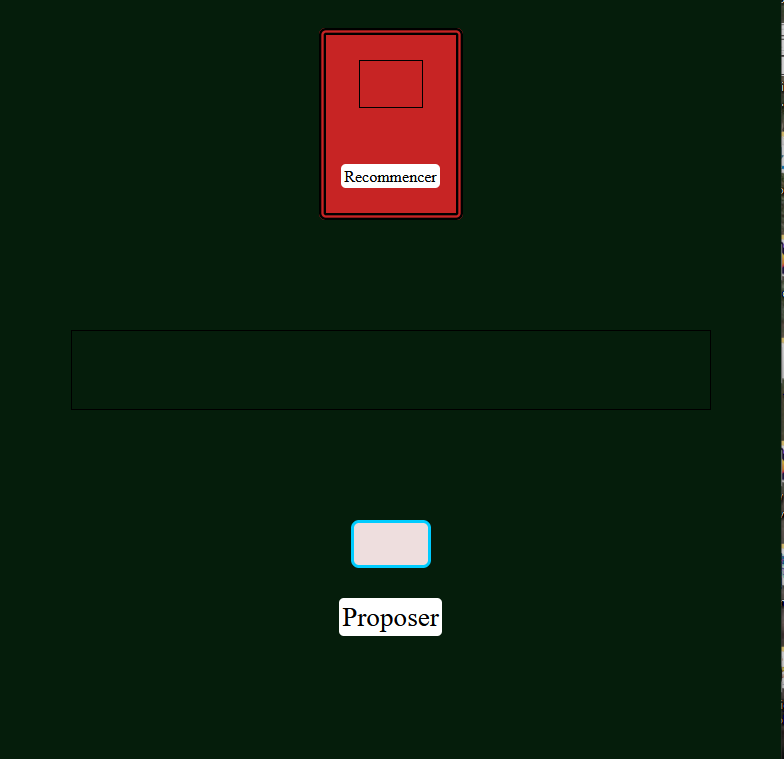
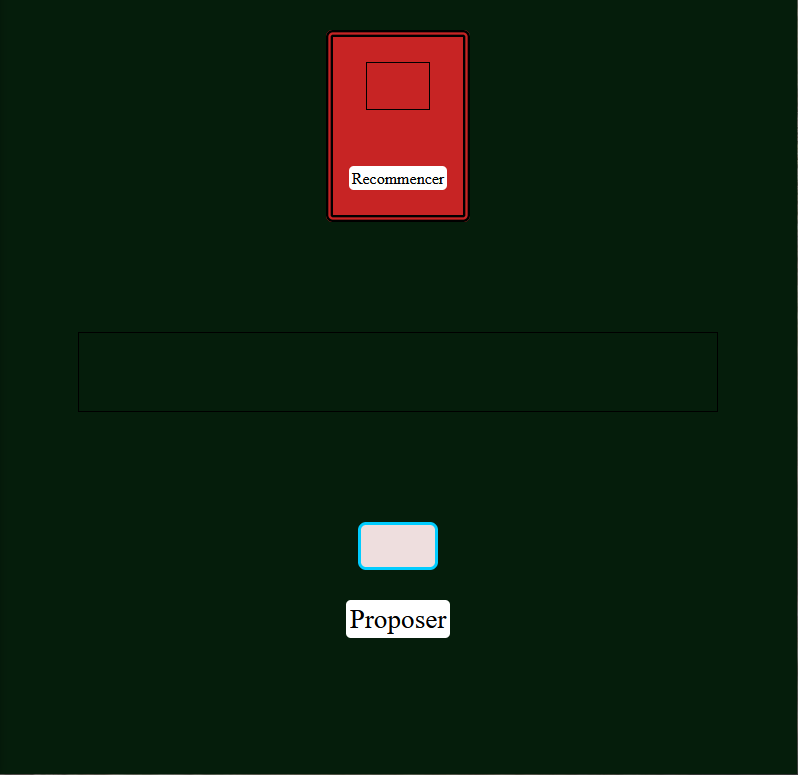
portfolio modif

diff --git a/juste prix/script.js b/juste prix/script.js
@@ -1,37 +1,82 @@
 "use strict"
 
-
+const justeprix = document.querySelector('.justeprix')
+const carte = document.querySelector('.carte')
+const restart = document.querySelector('.recommencer')
+const devine = document.querySelector('.devine')
 const aleatoire = Math.floor(Math.random() * 100) + 1;
 console.log(aleatoire);
+
+const guessInput = document.querySelector('#guess')
+const btn = document.querySelector('#submit')
+const texte = document.querySelector('.texte')
 let tentative = 0;
 const tentativeMax = 7;
 
-function Nombreàdeviner() {
-    const number = parseInt(prompt("Devinez le nombre entre 1 et 100 : "));
-
-    if(isNaN(number) || aleatoire < 1 || aleatoire >100){
-    alert("Veuillez entrer un nombre valide entre 1 et 100")
-    } else {
-    tentative++;
-
-    if (number < aleatoire) {
-    alert("le nombre à deviner est plus grand");
+btn.addEventListener('click', guessing)
+guessInput.addEventListener('keyup', (e)=>{
+    if (e.key === 'Enter') {
+        guessing();
     }
-    else if (number > aleatoire) {
-       alert("le nombre à deviner est plus petit");
+});
+
+restart.addEventListener('click', restartGame);
+    function startGame() {
+        const aleatoire = Math.floor(Math.random() * 100) + 1;
+        tentative = 0;
+        guessInput.disabled = false;
+        btn.disabled = false;
+        guessInput.value="";
+        texte.textContent = "",
+        guessInput.focus()
+    }
+    function restartGame() {
+        startGame();
+    }
+    startGame();
+        
+
+function guessing() {
+    const userGuess = parseInt(guessInput.value);
+    if(isNaN(userGuess) || userGuess < 1 || userGuess > 100){
+        texte.textContent = "Veuillez entrer un nombre valide entre 1 et 100"
+        texte.style.color = 'red'
+        texte.style.textShadow = "1px 1px 2px #ffffff"
+        } else {
+        tentative++;
+
+    if (userGuess < aleatoire) {
+        texte.textContent = `le nombre à deviner est plus grand (Essai ${tentative})`;
+        texte.style.textShadow = "1px 1px 5px #ffffff"
+        devine.textContent = "?"
+    }
+    else if (userGuess > aleatoire) {
+        texte.textContent = `le nombre à deviner est plus petit (Essai ${tentative})`;
+        texte.style.textShadow = "1px 1px 5px #ffffff"
+        devine.textContent="?"
     }
     else {
-        alert(`Vous avez deviné le nombre ${number} en ${tentative} tentatives`);
-        return;
+        texte.textContent =`Vous avez deviné le nombre ${userGuess} en ${tentative} tentatives`;
+        texte.style.textShadow = "2px 1px 5px green"
+        guessInput.disabled = true;
+        btn.disabled = true;
+        devine.textContent = aleatoire
+        devine.classList.remove("hidden")
+        restart.classList.remove("hidden")
     }
-    
-    if (tentative < tentativeMax){
-        Nombreàdeviner()
-    }
+    if (tentative < tentativeMax){}
     else {
-        alert("Désolé, vous avez utilisé le maximum de tentative soit 7 tentatives");  
+        texte.textContent ="Désolé, vous avez perdu"; 
+        texte.style.textShadow = "1px 1px 5px red"
+        devine.classList.remove("hidden")
+        restart.classList.remove("hidden")
     }
-    }
+    guessInput.value="";
 }
-Nombreàdeviner()
+}
+
+
+
+
+
 

diff --git a/juste prix/index.html b/juste prix/index.html
@@ -5,17 +5,22 @@
     <meta name="viewport" content="width=device-width, initial-scale=1.0">
     <title>Exo juste prix</title>
     <link rel="stylesheet" href="style.css">
-    <script src="script.js"></script>
+    <script src="./script.js" defer></script>
 </head>
 <body>
     <article class="justeprix">
-        <div class="carte">
-            <div class="devine"></div>
-            <div class="recommencer"><a href="" class="again">recommencer</a></div>
+        <div class="allcard">
+            <div class="twoface">
+            <div class="carte">
+                <div class="devine hidden"></div>
+                <div class="recommencer hidden"><a href="" class="again">recommencer</a></div>
+            </div>
+                <div class="doscarte"></div>
+            </div>
         </div>
-        <div class="texte"></div>
-        <div class="nombre"></div>
-        <div><a href="" class="btn">proposer</a></div>
+        <p class="texte"></p>
+        <div class="nombre"><input type="number" name="input" id="guess"></div>
+        <button id="submit">proposer</button>
     </article>
 </body>
 </html>

diff --git a/juste prix/style.css b/juste prix/style.css
@@ -29,10 +29,10 @@ body {
     background-color: rgb(199, 36, 36);
 }
 .devine {
-    border: 1px solid black;
-    height: 3em;
-    width: 4em;
+    font-size: 40px;
+    text-align: center;
 }
+.hidden{display: none;}
 .again {
     border: none;
     text-decoration: none;
@@ -46,13 +46,12 @@ body {
     background-color: white;
     color: black;
 }
-.texte {
-    border: 1px solid black;
-    width: 40em;
-    height: 5em;
+.texte{
     margin-top: 5em;
+    font-size: 30px;
+    text-align: center;
 }
-.nombre {
+#guess {
     border: 3px solid rgb(0, 204, 255);
     border-radius: 0.5em;
     background-color: rgb(238, 222, 222);
@@ -60,7 +59,14 @@ body {
     width: 5em;
     margin-top: 5em;
 }
-.btn {
+#guess:disabled {
+    background-color: gray;
+    border: none;
+}
+.nombre {
+    color: white;
+}
+#submit {
     border: none;
     text-decoration: none;
     padding: 0.2rem 0.2rem;
@@ -72,3 +78,4 @@ body {
     background-color: white;
     color: black;
 }
+#submit:disabled {background-color: grey;}

diff --git a/Portfolio/portfolio.css b/Portfolio/portfolio.css
@@ -250,9 +250,9 @@ a {
     linear-gradient(to right, gray, black);
     background-origin: border-box;
     background-clip: content-box, border-box;
-    width: 80vw;
+    width: 90vw;
     height: 30vh;
-    margin: 20px auto;
+    margin: 10px auto;
     animation: fromRight 2s linear;
 }
 .presentation p {
